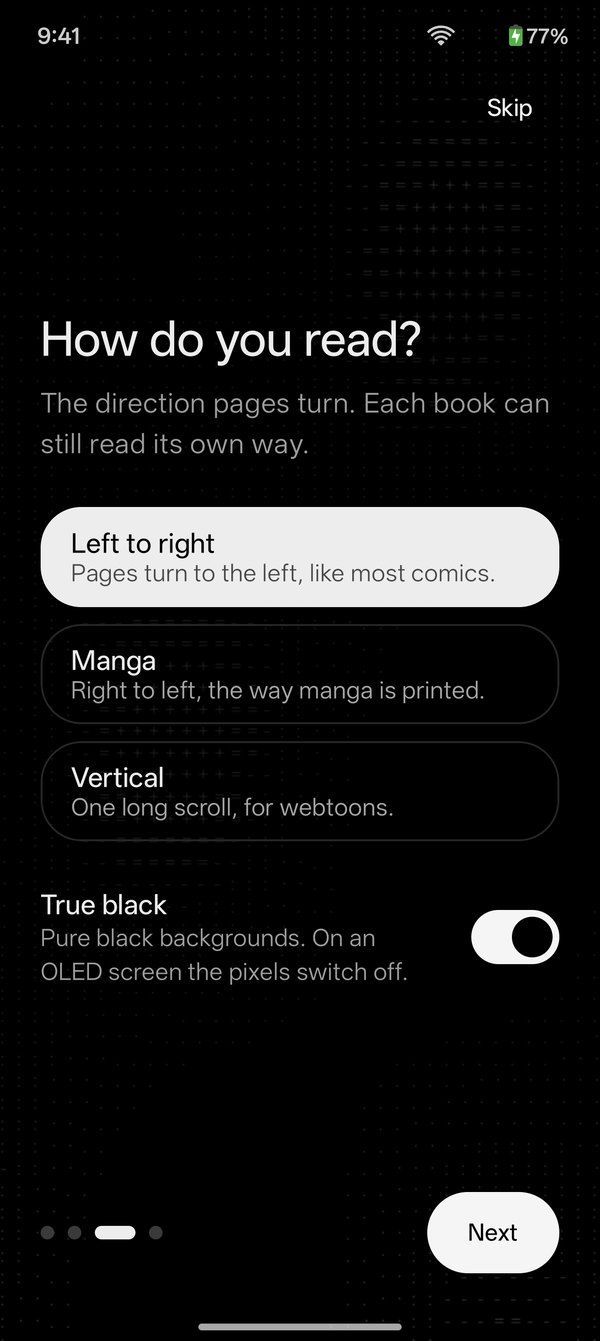
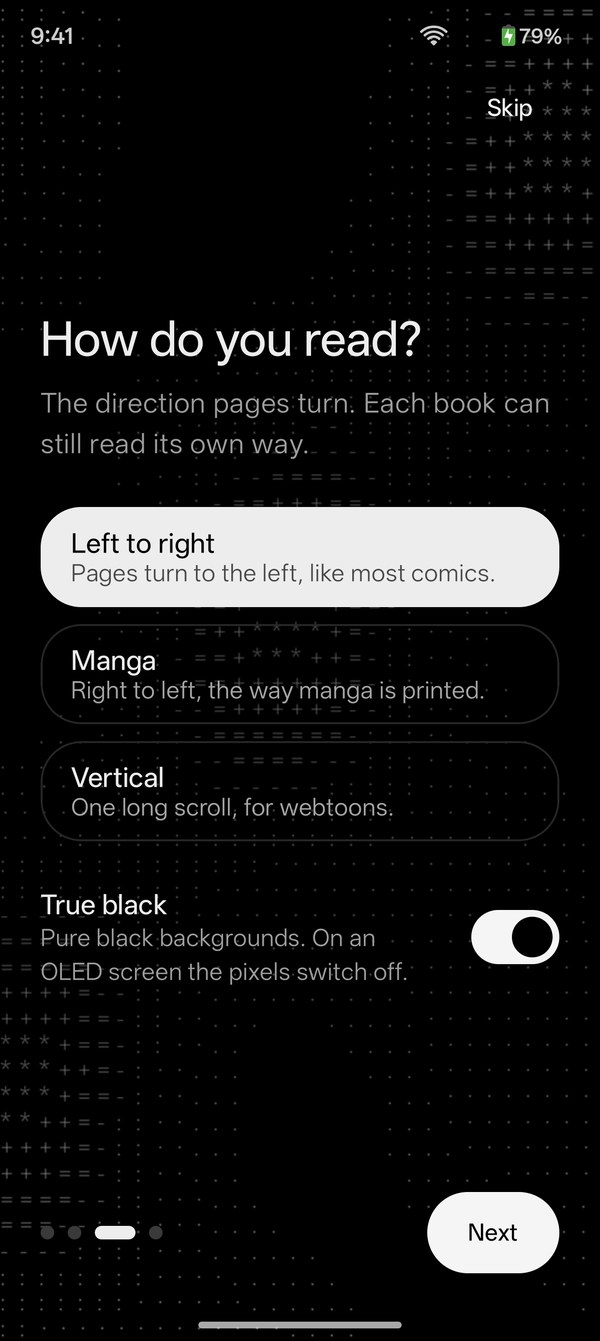
Onboarding: a brighter character field; retake its screenshots
The owner could not see the field in the README's onboarding shots: dark
grey glyphs under a 55 % scrim faded to a few specks. Glyphs are now a
lighter grey and slightly larger, and the scrim is lighter (35 % behind
the words, clear at the edges), so the waves read as they do on the
website. The two onboarding screenshots are retaken with it.

diff --git a/core/ui/src/main/kotlin/com/absolutex/core/ui/AsciiField.kt b/core/ui/src/main/kotlin/com/absolutex/core/ui/AsciiField.kt
@@ -131,8 +131,8 @@ private fun paintField(canvas: NativeCanvas, paint: Paint, width: Int, height: I
 
 /** Sparse on purpose: most of the field is blank, so it reads as texture behind words. */
 private const val RAMP = "   ..··::-=+*"
-private const val FIELD_GREY = 0xFF3A3A3A
-private const val FIELD_SP = 11
+private const val FIELD_GREY = 0xFF6E6E6E
+private const val FIELD_SP = 13
 
 /** Painted at this fraction of the screen's resolution: texture, not text anyone reads. */
 private const val SCALE = 2

diff --git a/app/src/main/kotlin/com/absolutex/Onboarding.kt b/app/src/main/kotlin/com/absolutex/Onboarding.kt
@@ -294,8 +294,8 @@ private val DotSize = 8.dp
 private val DotWide = 24.dp
 private val DotGap = 8.dp
 private val ScrimStops = arrayOf(
-    0f to Color.Black.copy(alpha = 0.1f),
-    0.25f to Color.Black.copy(alpha = 0.55f),
-    0.75f to Color.Black.copy(alpha = 0.55f),
-    1f to Color.Black.copy(alpha = 0.1f),
+    0f to Color.Transparent,
+    0.3f to Color.Black.copy(alpha = 0.35f),
+    0.7f to Color.Black.copy(alpha = 0.35f),
+    1f to Color.Transparent,
 )
